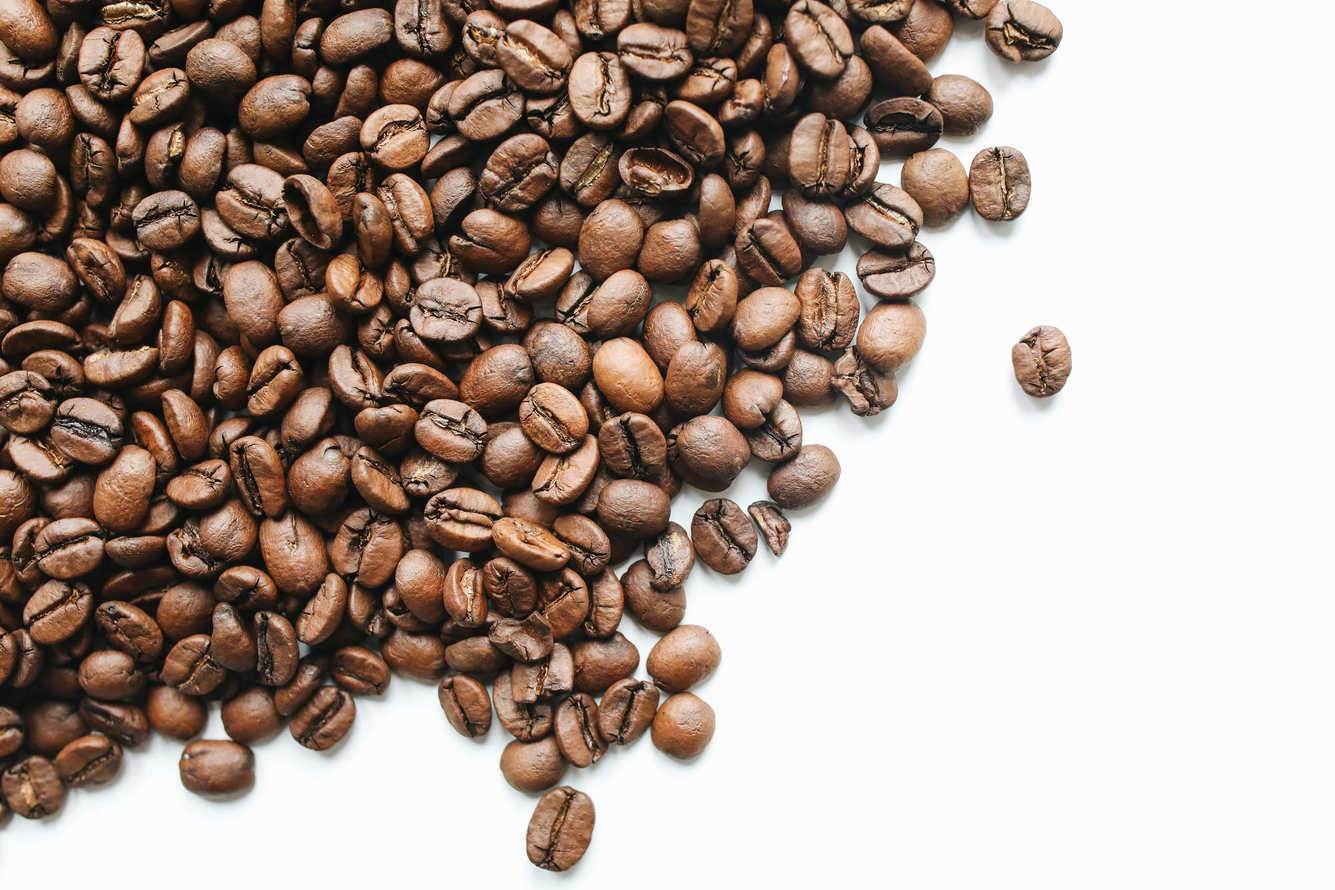
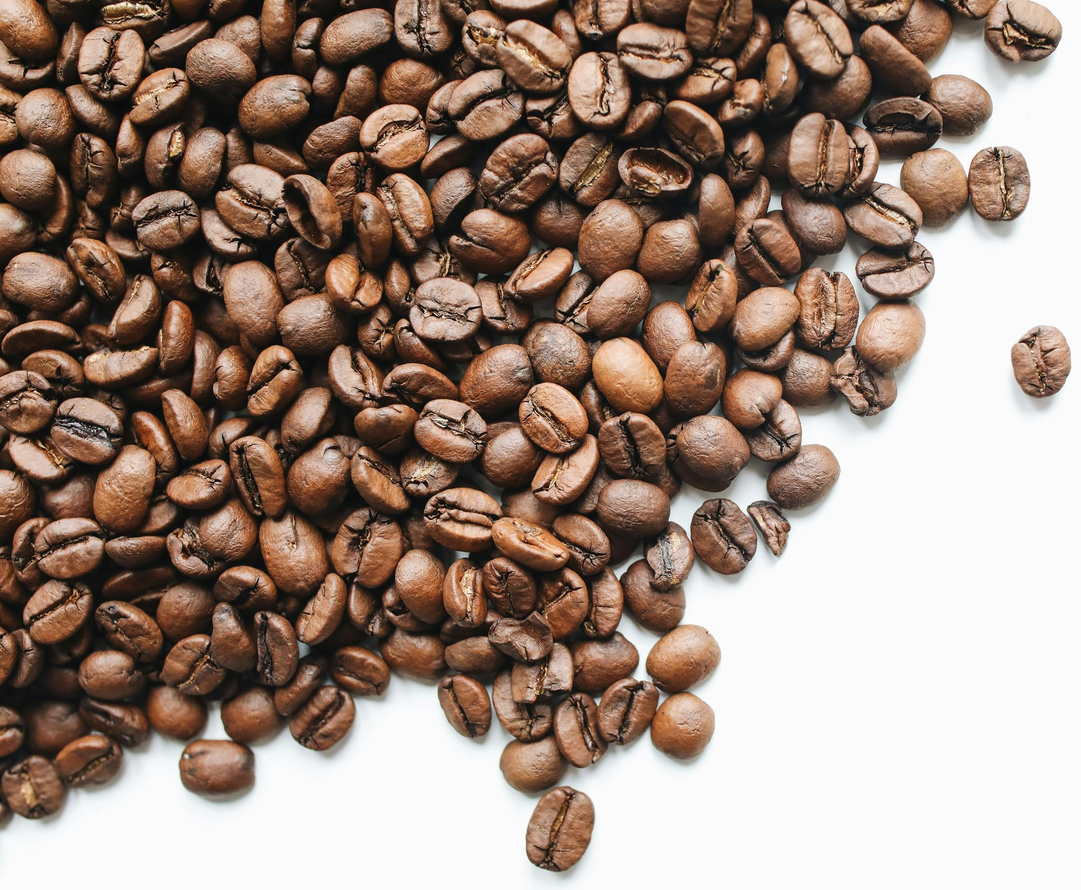
coffee business site

diff --git a/Business Site/style.css b/Business Site/style.css
@@ -56,50 +56,52 @@ body {
     transform: translateY(-2px); /* Raises the link slightly for depth */
 }
 
-@media (max-width: 768px) {
-    .navbar {
-        flex-direction: column;
-    }
-    
-    .nav-links {
-        flex-direction: column;
-        align-items: center;
-    }
 
-    .nav-links li {
-        padding: 10px 0;
-    }
-}
 
 .hero {
-  position: relative;
-  background-image: url('new.png'); /* Replace with your own image URL */
-  background-size: cover;
-  background-position: center;
-  color: white;
-  height: 60vh;
-  display: flex;
-  align-items: center;
-  justify-content: center;
-  text-align: center;
-}
+    display: flex;
+    align-items: center;
+    justify-content: space-between;
+    background-color: #fff;
+  }
+
+  .hero-image {
+    width: 55%;
+    height: 100%;
+  }
+
+  .hero-content {
+    width: 50%;
+    padding: 20px;
+    text-align: center;
+  }
+
+  .hero-header {
+    font-size: 2.5em;
+    color: #333;
+    margin-bottom: 5px;
+  }
+
+  .hero-subheader {
+    font-size: 1.5em;
+    color: #777;
+    margin-bottom: 1em;
+    margin-top: 0px;
+  }
+
 
 .hero-btn {
     display: inline-block;
-    background-color: #f9d342; /* A vibrant color for visibility */
-    color: #333; /* Contrast color for text */
     text-decoration: none;
-    padding: 12px 24px; /* Ample padding for a larger, more clickable area */
+    padding: 12px 30px; /* Ample padding for a larger, more clickable area */
     font-weight: bold; /* Makes the text stand out */
     border-radius: 50px; /* Rounded corners for a modern, pill-like shape */
     transition: all 0.3s ease; /* Smooth transition for hover effects */
     box-shadow: 0 4px 6px rgba(0,0,0,0.2); /* Subtle shadow for depth */
     font-size: 18px; /* Larger font size for readability and emphasis */
-    position: absolute;
-    right: 18%;
-    bottom: 15%;
     background-color: #6B4E31; /* Earthy tone, consistent with your theme */
     color: white;   
+    text-align: center;
 }
 
 .hero-btn:hover, .hero-btn:focus {
@@ -111,7 +113,6 @@ body {
     color: #6B4E31; /* Switch color scheme on hover/focus */
     border-color: #6B4E31; /* Highlight with a border */
 }
-
 
 .features {
     display: flex;
@@ -212,28 +213,6 @@ body {
     flex-direction: row-reverse;
 }
 
-/* Responsive Design */
-@media (max-width: 768px) {
-    .spec, .spec-reverse {
-        flex-direction: column;
-        text-align: center;
-    }
-
-    .spec-details, .spec-image {
-        flex-basis: auto;
-    }
-
-    .spec-image {
-        margin-bottom: 20px;
-    }
-
-    .spec-image img {
-        max-width: 80%;
-        margin: auto;
-        max-height: 200px; /* Adjust height for mobile to maintain consistency */
-    }
-}
-
 h1, h2, h3 {
     font-family: 'Merriweather', serif;
 }
@@ -296,12 +275,6 @@ h3 {
     font-size: 14px;
 }
 
-@media (max-width: 768px) {
-    .reviews {
-        flex-direction: column;
-        gap: 10px;
-    }
-}
 .contact-us {
     padding: 60px 20px; /* Ample padding for spacious layout */
     text-align: center;
@@ -369,14 +342,6 @@ h3 {
     background-color: transparent;
     color: #6B4E31; /* Switch color scheme on hover/focus */
     border-color: #6B4E31; /* Highlight with a border */
-}
-
-
-@media (max-width: 768px) {
-    .contact-intro, .contact-form {
-        width: 100%; /* Ensures full width utilization on smaller screens */
-        padding: 0 15px; /* Adds some padding for smaller screens */
-    }
 }
 
 .faqs-section {
@@ -481,12 +446,122 @@ h3 {
 }
 
 @media (max-width: 768px) {
-    .footer-content {
+    .navbar {
+        flex-direction: column;
+    }
+    
+    .nav-links {
         flex-direction: column;
         align-items: center;
     }
-    
+
+    .nav-links li {
+        padding: 10px 0;
+    }
+    .hero-btn {
+        padding: 10px 20px; /* Adjust padding */
+        font-size: 16px; /* Adjust font size */
+    }
+    .features {
+        flex-direction: column;
+        align-items: center;
+    }
+
+    .feature-card {
+        width: 80%; /* Adjusts card width to better fit smaller screens */
+        /* Ensure the width doesn't get too small on very small screens */
+        min-width: 280px;
+    }
+
+    .feature-btn {
+        width: auto; /* Adjust button width as per content */
+    }
+
+    .spec, .spec-reverse {
+        flex-direction: column; /* Stacks items vertically on smaller screens */
+    }
+    .top-spec {
+        display: block;
+    }
+
+    .spec-details, .spec-image {
+        flex-basis: auto; /* Resets the flex basis */
+        padding: 0; /* Removes padding for full-width alignment */
+    }
+
+    .spec-reverse .spec-details {
+        order: -1; /* Moves text above the image in .spec-reverse elements */
+    }
+    .spec img {
+        height: 250px;
+        width: 350px;
+
+    }
+    .target {
+        position: relative;
+        right: -28px;
+    }
+    .reviews {
+        flex-direction: column;
+        gap: 10px;
+        /* justify-content: center; */
+        align-items: center;
+    }
+    .contact-intro, .contact-form {
+        width: 100%; /* Ensures full width utilization on smaller screens */
+        padding: 0 15px; /* Adds some padding for smaller screens */
+    }
+    .footer-content {
+        display: flex;
+        flex-direction: column;
+        align-items: center;
+        justify-content: center;
+    }
+
     .footer-section {
-        margin: 10px 0; /* Adjusts spacing for mobile layout */
+        display: flex;
+        flex-direction: column;
+        align-items: center;
+        width: 100%; /* Ensures footer sections take full width */
+    }
+
+    .footer-section h3 {
+        margin-bottom: 10px;
+    }
+
+    .footer-links li a, .footer-section p, .social-icon {
+        margin: 5px 0; /* Provides consistent spacing */
+    }
+
+    .footer-bottom {
+        width: 100%; /* Ensures the bottom section spans the full width */
+    }
+}
+
+/* Further adjustments for very small screens */
+@media (max-width: 480px) {
+    .hero-header {
+        font-size: 25px;
+        color: #333;
+        margin-bottom: 0.1em;
+      }
+    
+      .hero-subheader {
+        font-size: 15px;
+        color: #777;
+        margin-bottom: 10px;
+      }
+    .hero-content{
+      width: 30%;
+    }
+    .hero-image {
+      width: 60%;
+    }
+    .hero-btn {
+        padding: 8px 18px; /* Slightly smaller padding */
+        font-size: 14px; /* Smaller font size for very small screens */
+        border-radius: 40px; /* Adjust border-radius for smaller buttons */
+        right: 7%;
+        bottom: 25%;
     }
 }

diff --git a/Business Site/index.html b/Business Site/index.html
@@ -25,7 +25,10 @@
         </ul>
     </nav>
     <div class="hero">
+  <img src="Coffee Beans.jpg" alt="Coffee Beans" class="hero-image">
         <div class="hero-content">
+            <h1 class="hero-header">Brewing Excellence</h1>
+            <p class="hero-subheader">Travel the World in every Cup</p>
             <a href="#shop" class="hero-btn">SHOP NOW</a>
         </div>
     </div>
@@ -53,20 +56,20 @@
     </div>
     <div class="value-added-section">
         <!-- Spec 1: Image on the right -->
-        <div class="spec">
+        <div class="spec top-spec">
             <div class="spec-details">
-                <h3>Let your cup take you on a journey around the globe</h3>
+                <h3>Take a journey around the globe</h3>
                 <p>We get our coffee beans from more than 23 countries, each with its own characteristics and taste profile.</p>
             </div>
             <div class="spec-image">
-                <img src="coffee-map.jpg" alt="Spec 1">
+                <img class="target" src="coffee-map.jpg" alt="Coffee around the world">
             </div>
         </div>
     
         <!-- Spec 2: Image on the left -->
         <div class="spec spec-reverse">
             <div class="spec-image">
-                <img src="coffee-tree.jpg" alt="Spec 2">
+                <img src="coffee-tree.jpg" alt="sustainable coffee">
             </div>
             <div class="spec-details">
                 <h3>Sustainability at Every Sip</h3>
